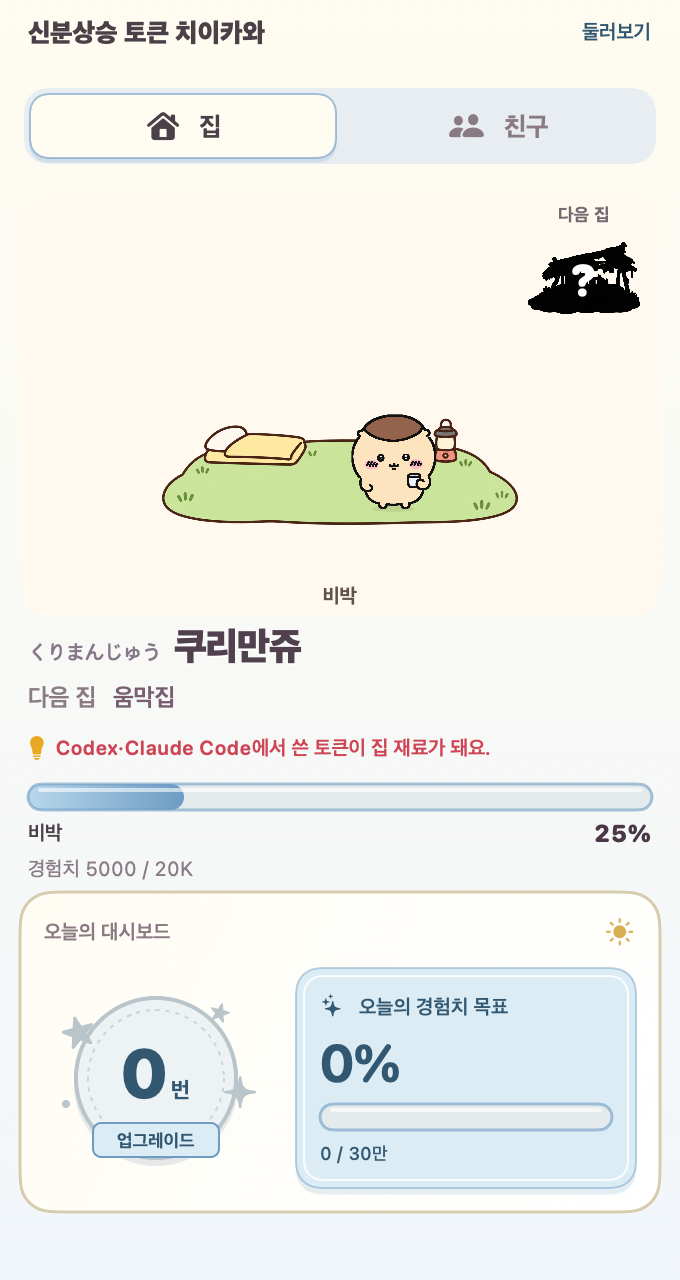
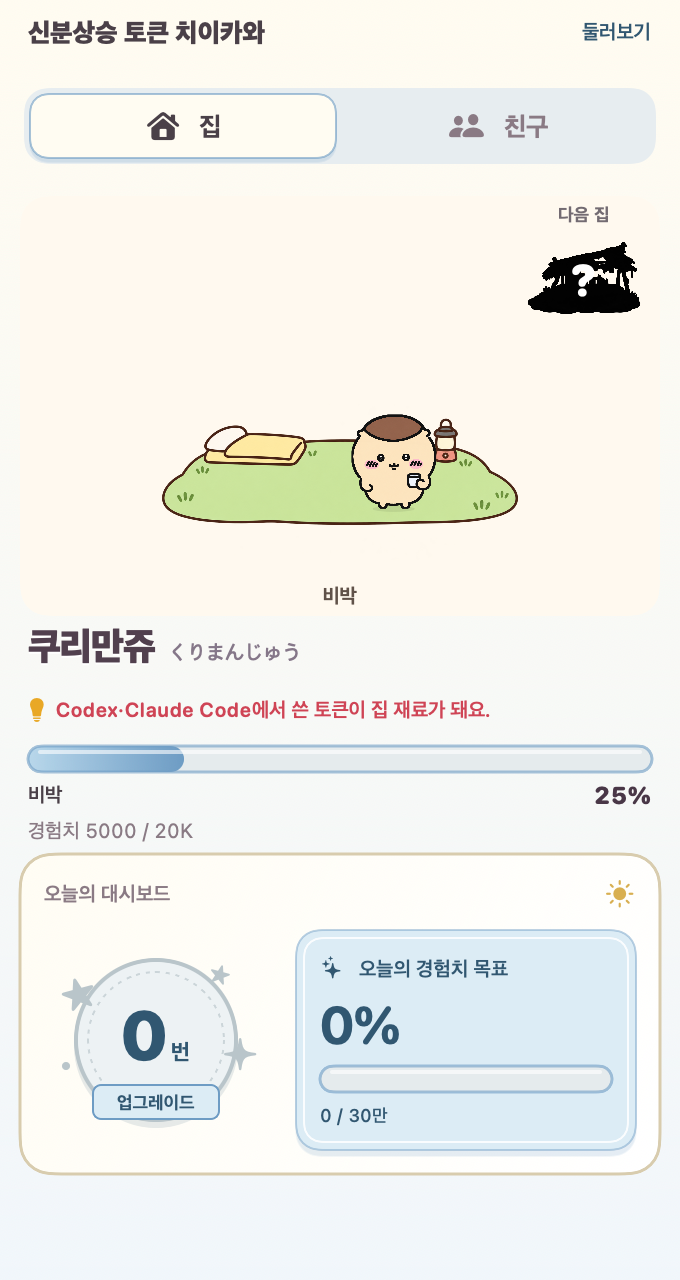
Place Japanese after Korean and simplify next-home hint in 0.4.6

Changed region(s): [[0.0, 0.4688, 0.9882, 0.9375], [0.9574, 0.6875, 0.9882, 0.7188], [0.0309, 0.9062, 0.0618, 0.9375]]

diff --git a/Sources/ChiiBar/PopoverView.swift b/Sources/ChiiBar/PopoverView.swift
@@ -177,14 +177,14 @@ struct FriendHeader: View {
     @ObservedObject var model: AppModel
     var body: some View {
         HStack(alignment: .firstTextBaseline, spacing: 6) {
-            Text(model.state.current?.japaneseName ?? "")
-                .font(.system(size: 11, weight: .semibold, design: .rounded))
-                .foregroundStyle(Ink.rgb(0x857789))
             Text(model.state.current?.name ?? "친구")
                 .font(.custom("AppleSDGothicNeo-Heavy", size: 19))
                 .tracking(-0.5)
                 .foregroundStyle(Ink.rgb(0x51404E))
                 .shadow(color: .white, radius: 0, y: 1)
+            Text(model.state.current?.japaneseName ?? "")
+                .font(.system(size: 11, weight: .semibold, design: .rounded))
+                .foregroundStyle(Ink.rgb(0x857789))
             Spacer(minLength: 0)
         }.padding(.horizontal, 4)
     }
@@ -208,11 +208,6 @@ struct StageProgress: View {
         guard carryover == nil, let f = model.state.current, let record = model.state.progressToday(for: f, at: model.now),
               record.startStage == house.stage, let cost = house.nextCost else { return nil }
         return min(1, Double(record.startProgress) / Double(cost))
-    }
-    var label: String {
-        if model.building { return "\(HousePlan.pieceNames[house.stage - 1]) 업그레이드 중" }
-        return house.isComplete ? "펜트하우스 완성"
-            : "다음 집: \(HousePlan.pieceNames[house.stage])"
     }
     private func guidance(_ text: String, icon: String) -> some View {
         HStack(spacing: 5) {
@@ -242,20 +237,6 @@ struct StageProgress: View {
     }
     var body: some View {
         VStack(alignment: .leading, spacing: 4) {
-            HStack {
-                if !model.building && !house.isComplete {
-                    Text("다음 집")
-                        .font(.system(size: 12, weight: .semibold))
-                        .foregroundStyle(Theme.soft)
-                    Text(HousePlan.pieceNames[house.stage])
-                        .font(.system(size: 12, weight: .semibold))
-                        .foregroundStyle(Ink.rgb(0x795D70))
-                } else {
-                    Text(label).font(.system(size: 12, weight: .semibold))
-                        .foregroundStyle(Ink.rgb(0x795D70))
-                }
-                Spacer()
-            }
             Clock(fixed: model.fixedNow) { date in
                 let displayed = carryover?.displayedFraction(target: fraction, at: date, reduceMotion: reduceMotion) ?? fraction
                 let carrying = carryover?.isAnimating(at: date) ?? false
